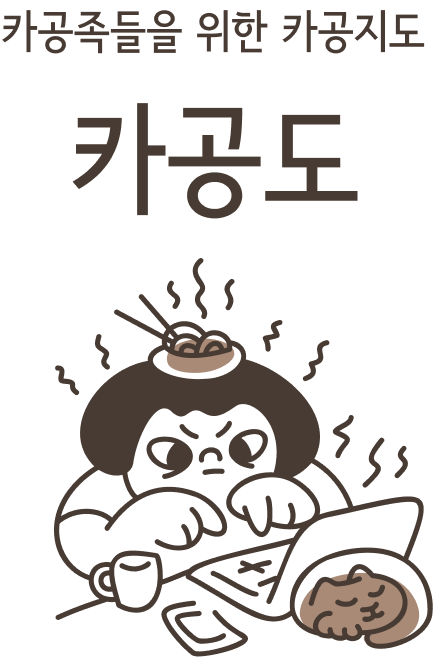
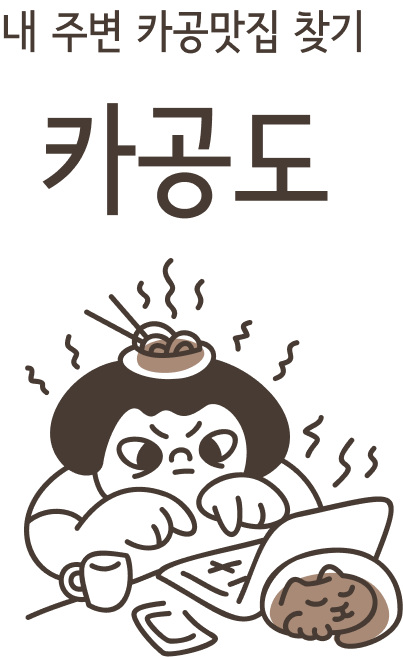
Design: change subtitle

diff --git a/src/pages/MyPage/MyPage.tsx b/src/pages/MyPage/MyPage.tsx
@@ -1,13 +1,50 @@
+import React, { useEffect } from 'react';
 import * as S from './MyPageStyle';
-import Header from '../../components/Header/Header';
-import TabBar from '../../components/TabBar/TabBar';
 
 const MyPage: React.FC = () => {
+  const cards = [
+    '카드 1',
+    '카드 2',
+    '카드 3',
+    '카드 4',
+    '카드 5',
+    '카드 6',
+    '카드 7',
+  ];
+
+  const duplicatedCards = [...cards, ...cards]; // 카드 배열을 복제
+
+  useEffect(() => {
+    // 스크롤 방지
+    const preventScroll = (e: WheelEvent | TouchEvent) => {
+      e.preventDefault();
+    };
+
+    window.addEventListener('wheel', preventScroll, { passive: false });
+    window.addEventListener('touchmove', preventScroll, { passive: false });
+
+    return () => {
+      window.removeEventListener('wheel', preventScroll);
+      window.removeEventListener('touchmove', preventScroll);
+    };
+  }, []);
+
   return (
     <S.Container>
-      <Header />
-      <p>My Page</p>
-      <TabBar />
+      <S.AnimationLayout>
+        {duplicatedCards.map((card, index) => (
+          <S.FlowBox key={index}>
+            <p>{card}</p>
+          </S.FlowBox>
+        ))}
+      </S.AnimationLayout>
+      <S.AnimationLayoutReverse>
+        {duplicatedCards.map((card, index) => (
+          <S.FlowBox key={index}>
+            <p>{card}</p>
+          </S.FlowBox>
+        ))}
+      </S.AnimationLayoutReverse>
     </S.Container>
   );
 };

diff --git a/src/pages/MyPage/MyPageStyle.ts b/src/pages/MyPage/MyPageStyle.ts
@@ -1,15 +1,51 @@
-import { styled } from 'styled-components';
+import styled, { keyframes } from 'styled-components';
+
+const flowing = keyframes`
+  0% {
+    transform: translate3d(0, 0, 0);
+  }
+  100% {
+    transform: translate3d(-100%, 0, 0); 
+  }
+`;
+
+const flowingReverse = keyframes`
+  0% {
+    transform: translate3d(-100%, 0, 0);
+  }
+  100% {
+    transform: translate3d(0, 0, 0); 
+  }
+`;
 
 // 스타일드 컴포넌트 정의
 export const Container = styled.div`
   box-sizing: border-box;
-  padding: 54px 20px 80px 20px;
+  padding: 100px 0;
   width: 100vw;
   height: 100vh;
   overflow: hidden;
   display: flex;
   flex-direction: column;
-  justify-content: center;
-  align-items: center;
-  row-gap: 40px;
+`;
+
+export const AnimationLayout = styled.div`
+  /* border: 1px solid red; */
+  width: 100%;
+  display: flex;
+  animation: ${flowing} 20s linear infinite;
+`;
+
+export const AnimationLayoutReverse = styled.div`
+  /* border: 1px solid red; */
+  width: 100%;
+  display: flex;
+  animation: ${flowingReverse} 20s linear infinite;
+`;
+
+export const FlowBox = styled.div`
+  border: 1px solid red;
+  width: 300px; // 고정된 너비
+  height: 200px;
+  flex-shrink: 0; // 카드가 줄어들지 않도록 설정
 `;
